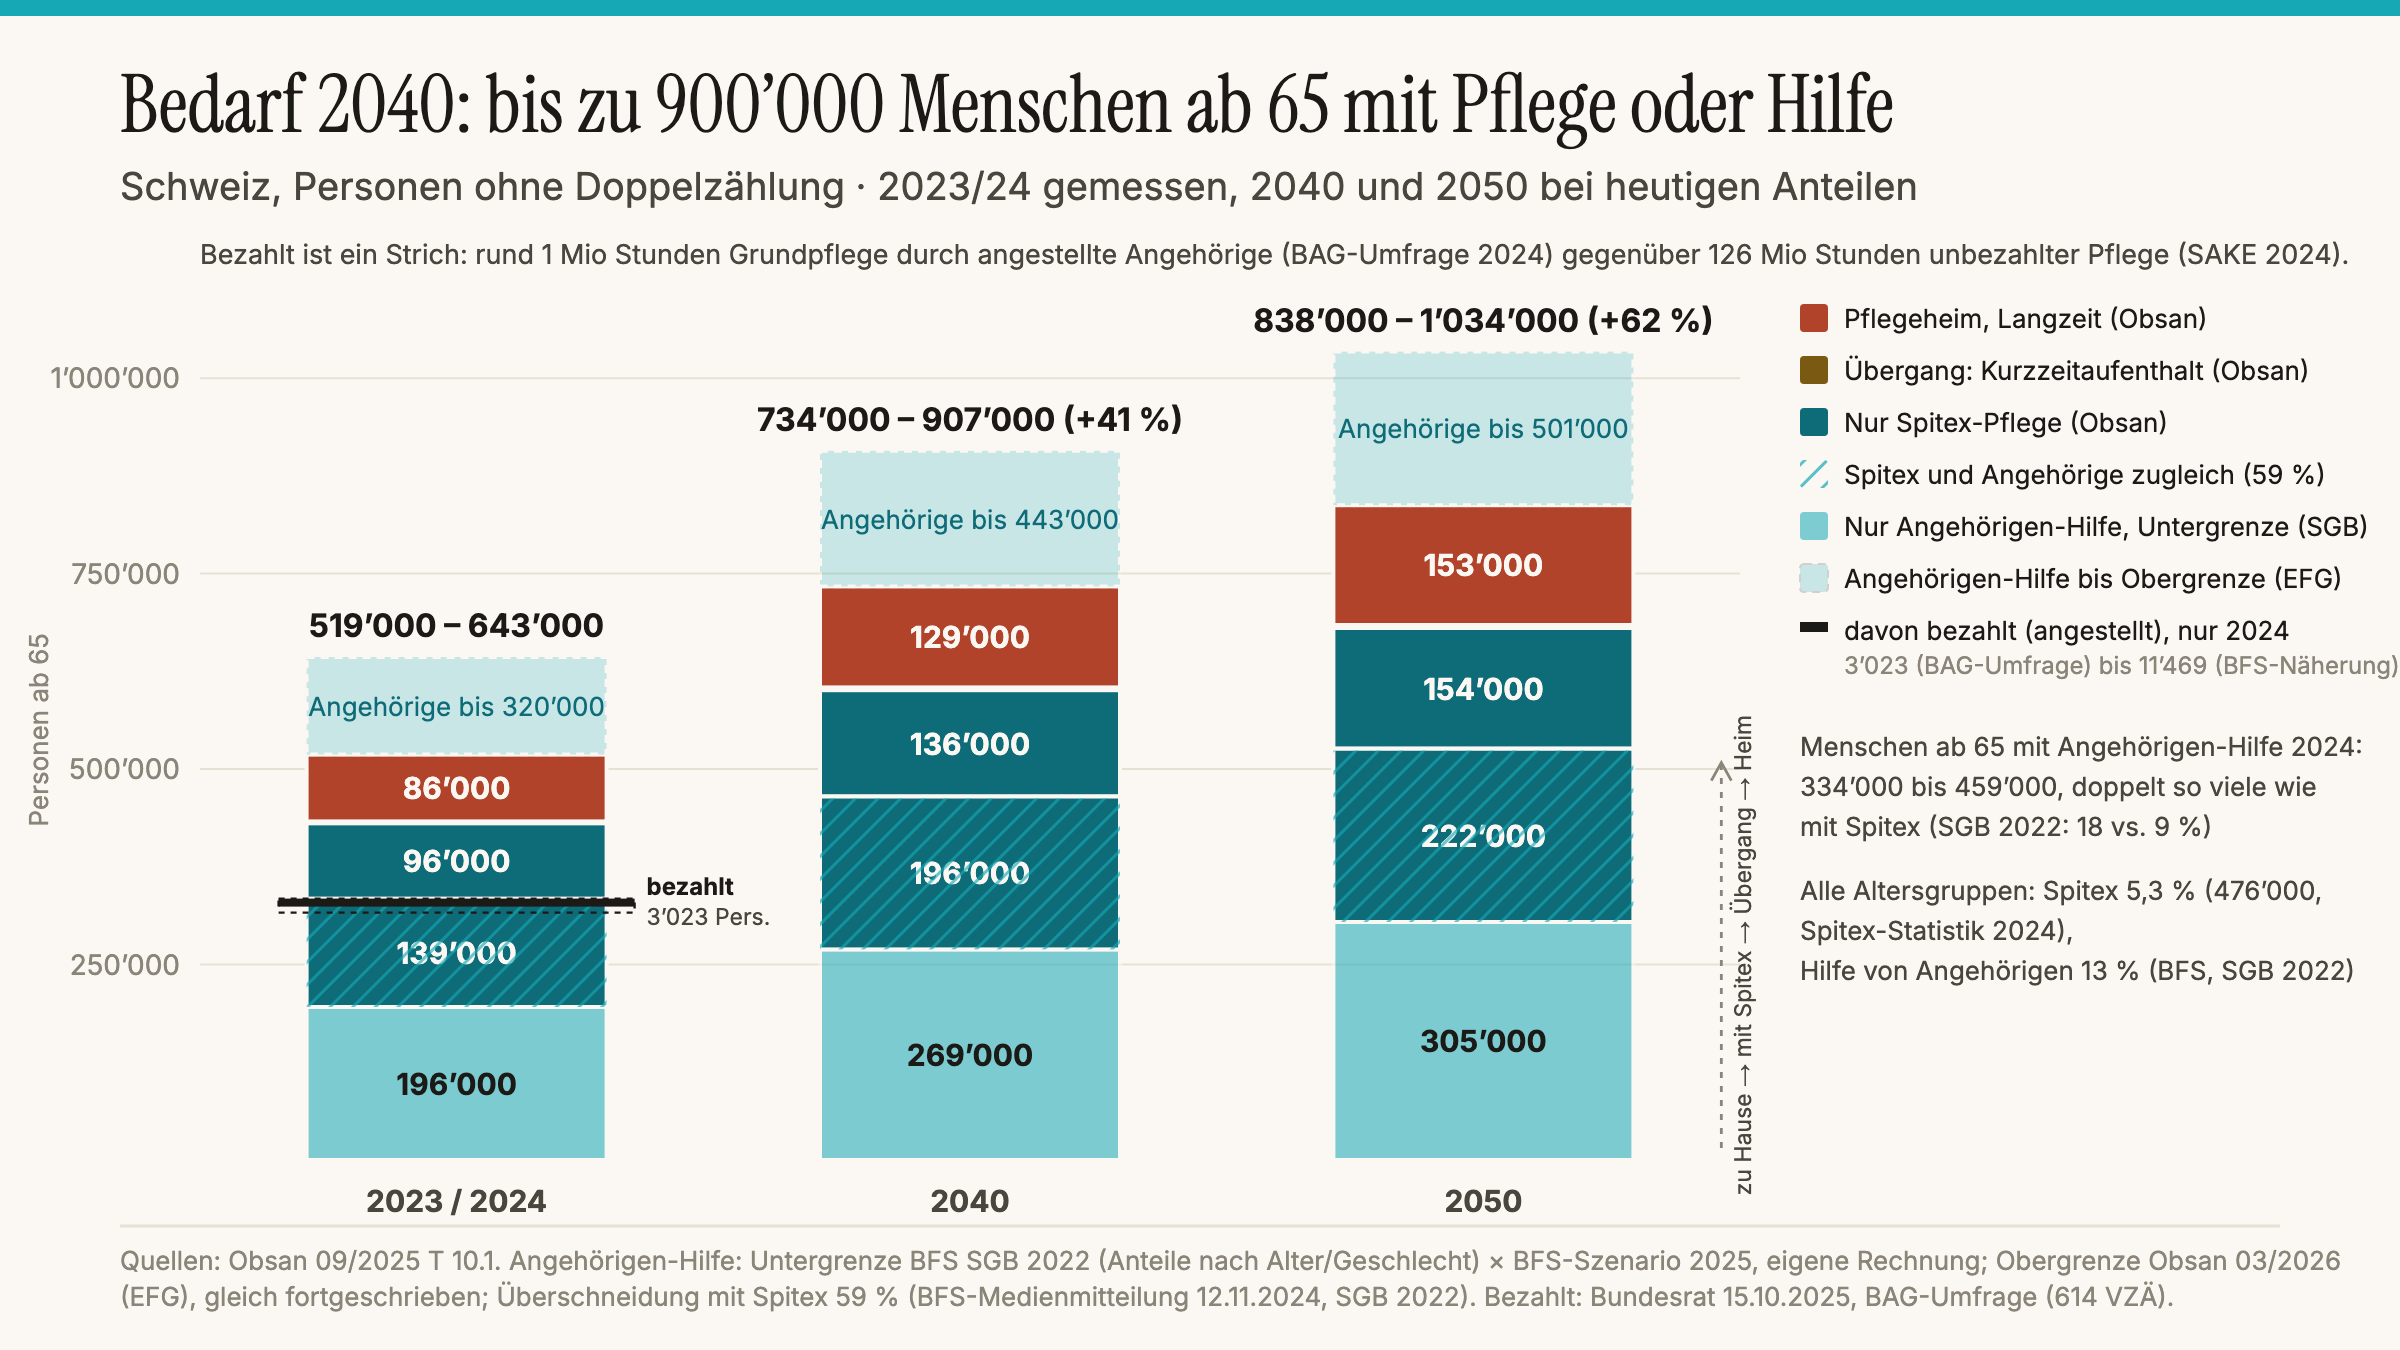
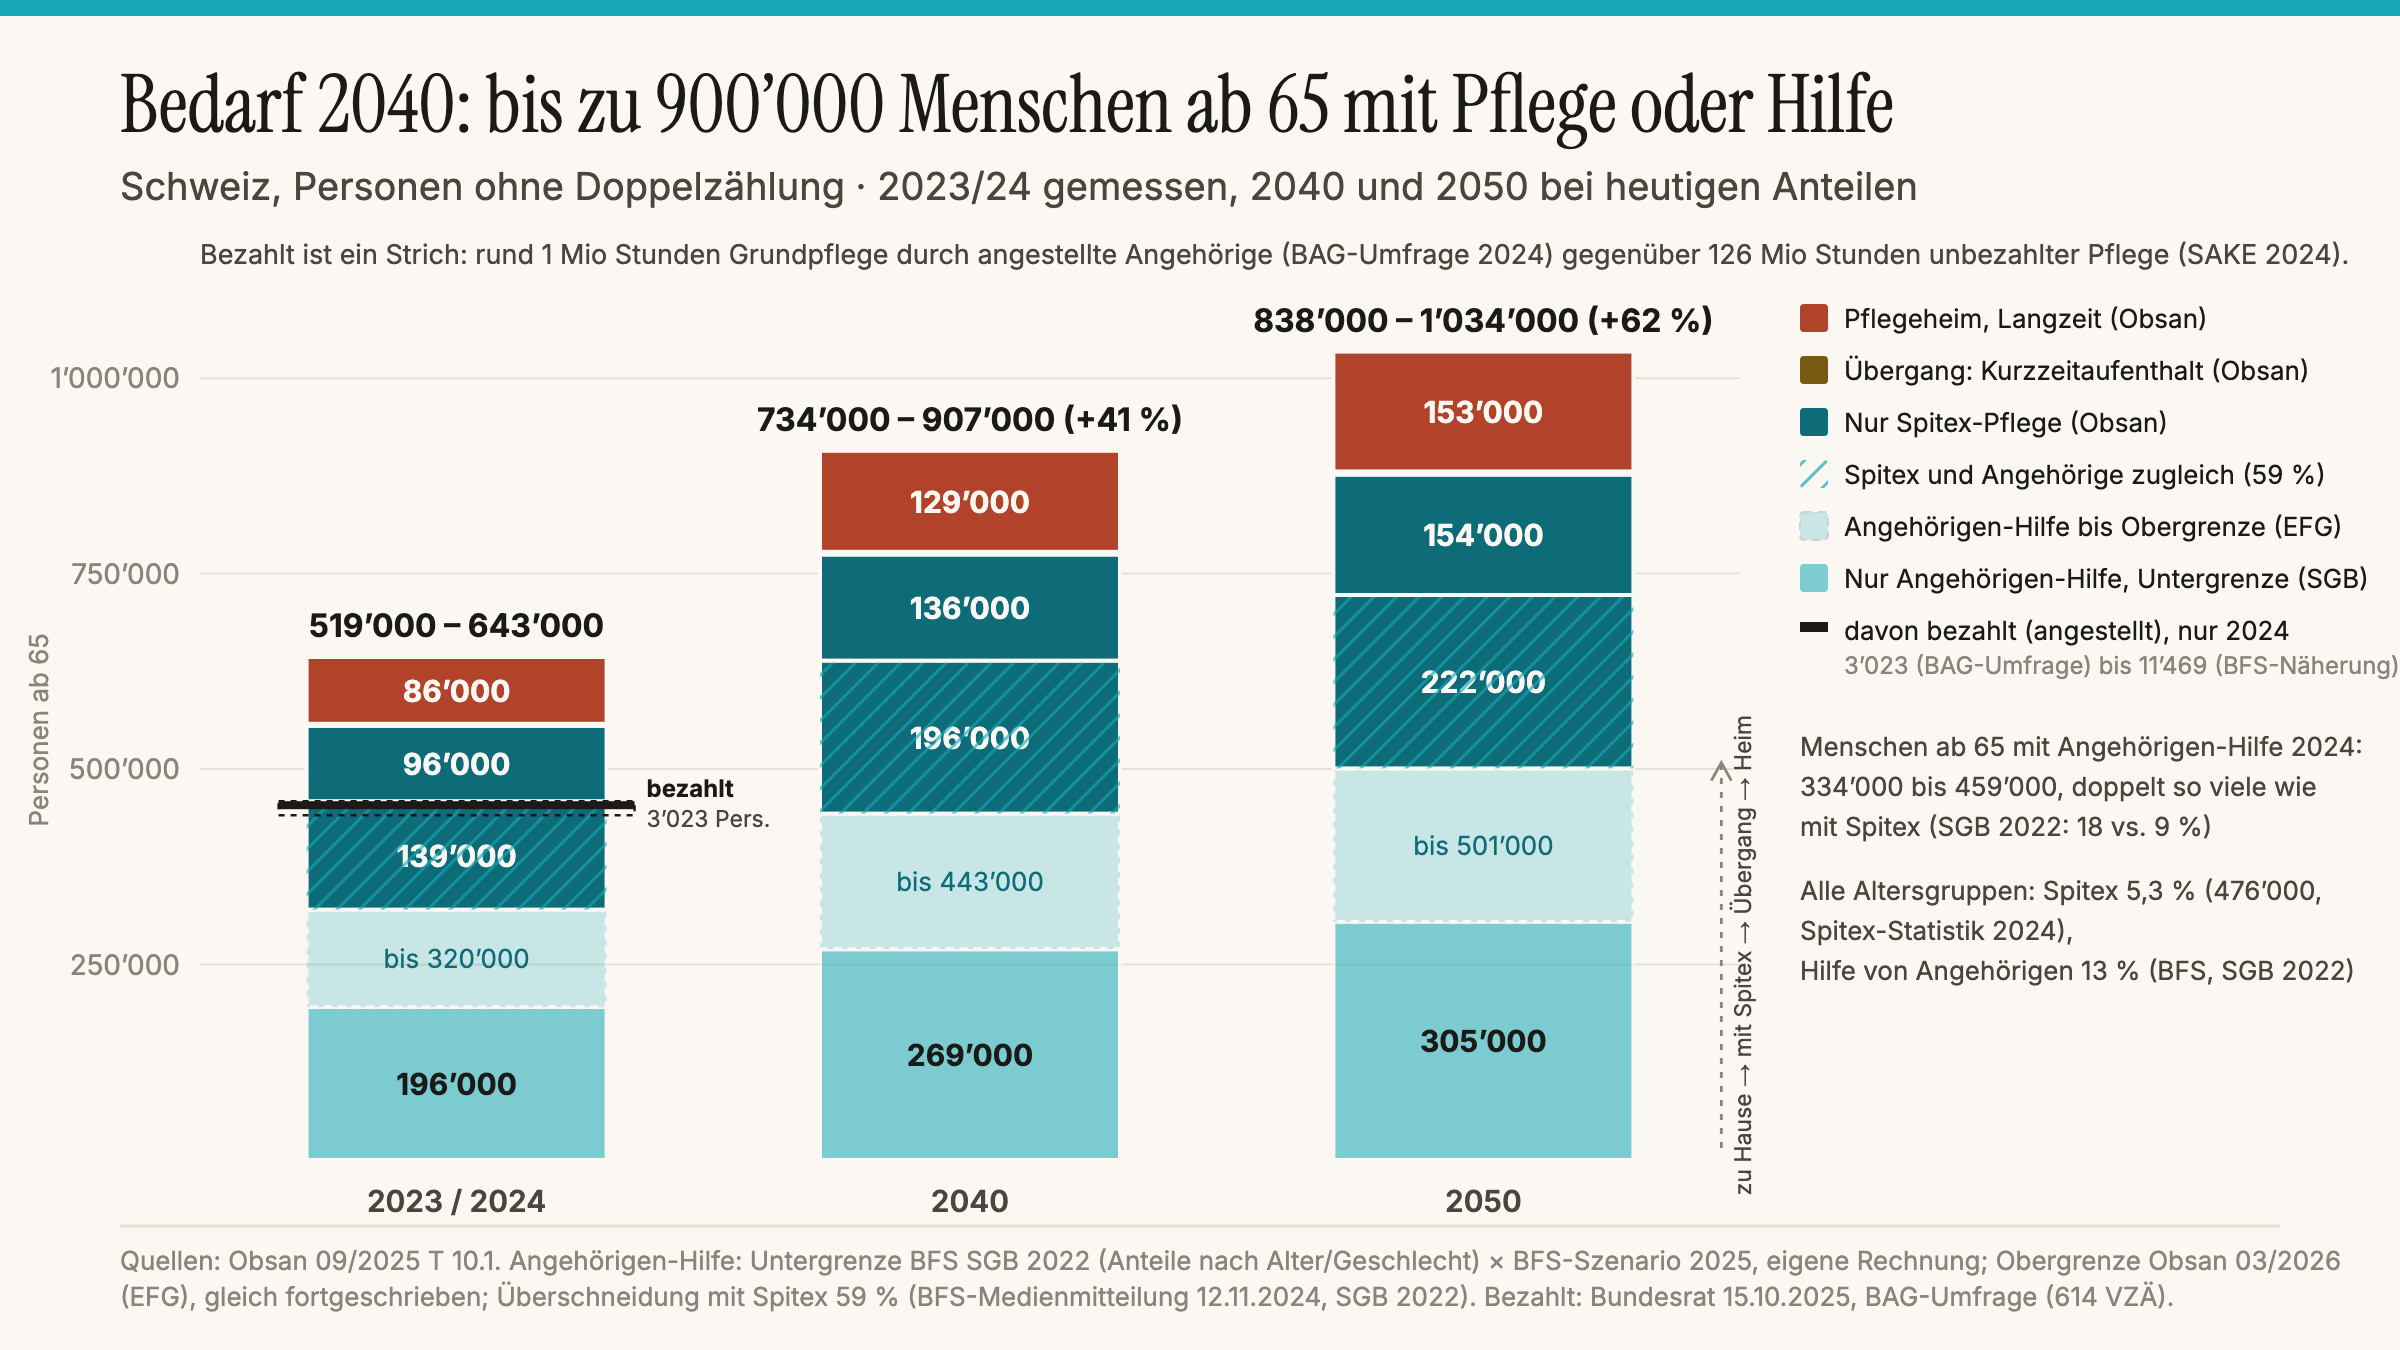
Bedarf 2040: Obergrenze der Angehörigen-Hilfe direkt über dem Angehörigen-Block, Heim zuoberst (alle Fassungen)

diff --git a/CHANGELOG.md b/CHANGELOG.md
@@ -8,6 +8,7 @@ Erste öffentliche Fassung. Grafik-Satz 2 der Infografiken zur Angehörigenbetre
 - `bedarf-2040/`: Stapel liest sich von unten nach oben als Lebenslauf (nur Angehörige, mit Spitex, nur Spitex, Übergang, Heim); der bezahlte Teil (3'023 angestellte Angehörige 2024, bis 11'469 nach BFS-Näherung) ist als Strich markiert.
 - Alle Grafiken ohne Kopfzeile mit Web-Adresse, je in Markenversion und schlichter Dokumentversion.
 - Nachtrag gleichentags: Der Keil der Schere hat zwei Schichten: kräftig zwischen Menschen ab 80 und Obsans Quote je Person ab 65, blass darunter bis zur Quote je Person ab 80 (eigene Erweiterung). Betrifft `schere-2040/grafik/schere*` in allen Fassungen.
+- Nachtrag gleichentags: Im Bedarf-Stapel sitzt die Obergrenze der Angehörigen-Hilfe (gestrichelt) direkt über dem festen Angehörigen-Block statt als Kappe oben; das Pflegeheim schliesst den Stapel ab. Betrifft `bedarf-2040/grafik/bedarf-balken*` und `bedarf-kompakt*`.
 - Nachtrag gleichentags: Kompaktfassungen `schere-kompakt` (nur die vier Kurven und der Keil) und `bedarf-kompakt` (zwei Stapel, direkte Beschriftung), je Marke und schlicht, in `schere-2040/grafik/` und `bedarf-2040/grafik/`. Gleiche Daten, reduzierte Darstellung für schnelle Lektüre.
 
 Gegenüber Grafik-Satz 1 (2. September 2026, nicht öffentlich) sind die Daten unverändert; geändert wurden Darstellung und Beschriftung.

diff --git a/bedarf-2040/README.md b/bedarf-2040/README.md
@@ -2,7 +2,7 @@
 
 Zwei Grafiken:
 
-- `grafik/bedarf-balken.svg`: **Bedarf 2040: bis zu 900'000 Menschen ab 65 mit Pflege oder Hilfe.** Personen ohne Doppelzählung, 2023/24 gemessen, 2040 und 2050 bei heutigen Anteilen. Der Stapel liest sich von unten nach oben wie ein Lebenslauf: zu Hause nur mit Angehörigen, mit Spitex (davon ein Strich bezahlt), nur Spitex, Übergang (Kurzzeitaufenthalt), Heim.
+- `grafik/bedarf-balken.svg`: **Bedarf 2040: bis zu 900'000 Menschen ab 65 mit Pflege oder Hilfe.** Personen ohne Doppelzählung, 2023/24 gemessen, 2040 und 2050 bei heutigen Anteilen. Der Stapel liest sich von unten nach oben wie ein Lebenslauf: zu Hause nur mit Angehörigen (fest die Untergrenze, gestrichelt darüber die Obergrenze), mit Spitex (davon ein Strich bezahlt), nur Spitex, Übergang (Kurzzeitaufenthalt), Heim zuoberst.
 - `grafik/bezahlt.svg`: **Bezahlte Angehörigenpflege: zwei Zählungen.** Angestellte pflegende Angehörige nach BAG-Umfrage und nach BFS-Näherung.
 
 Je auch als PNG und in der schlichten Dokumentversion (`-schlicht`).
